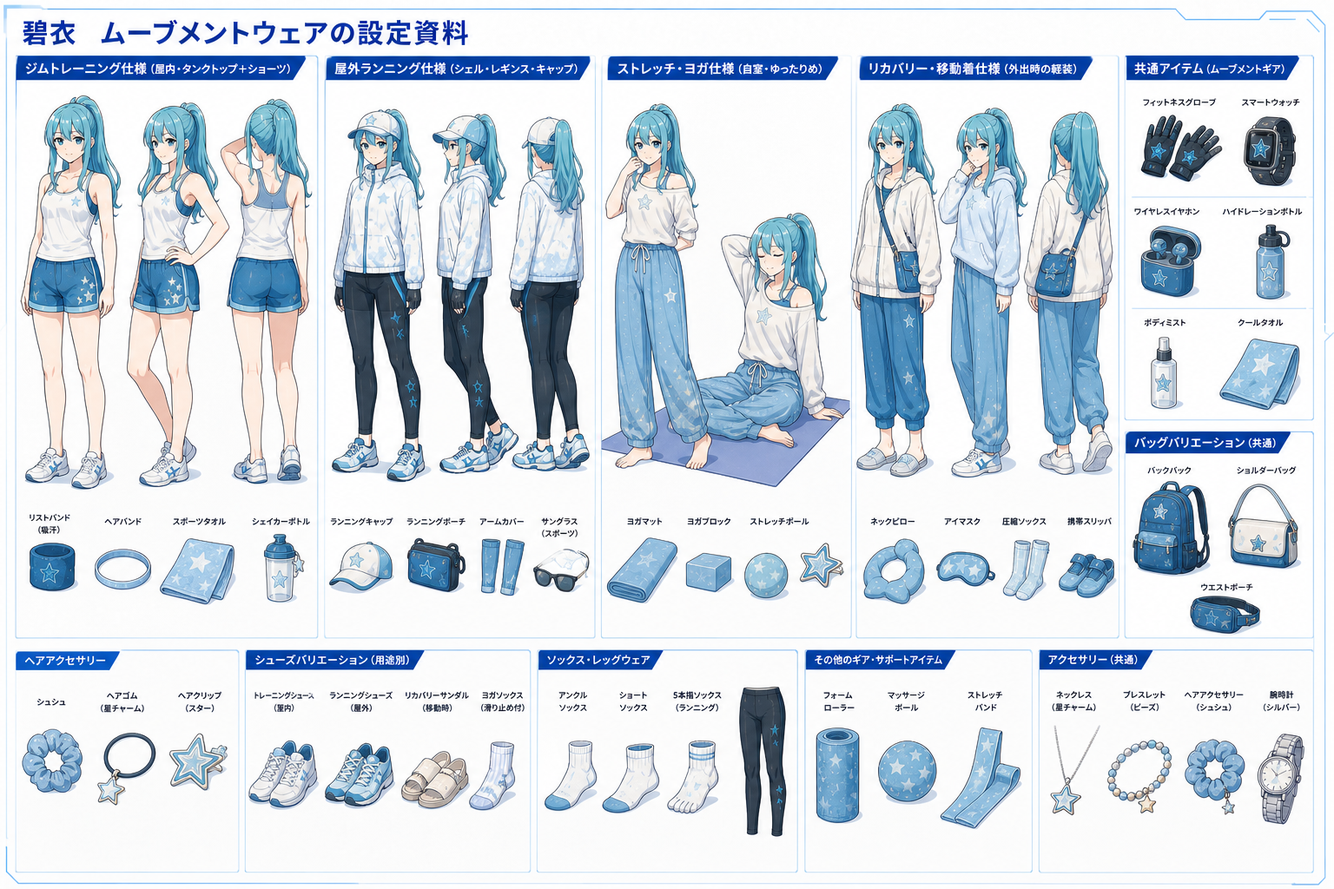
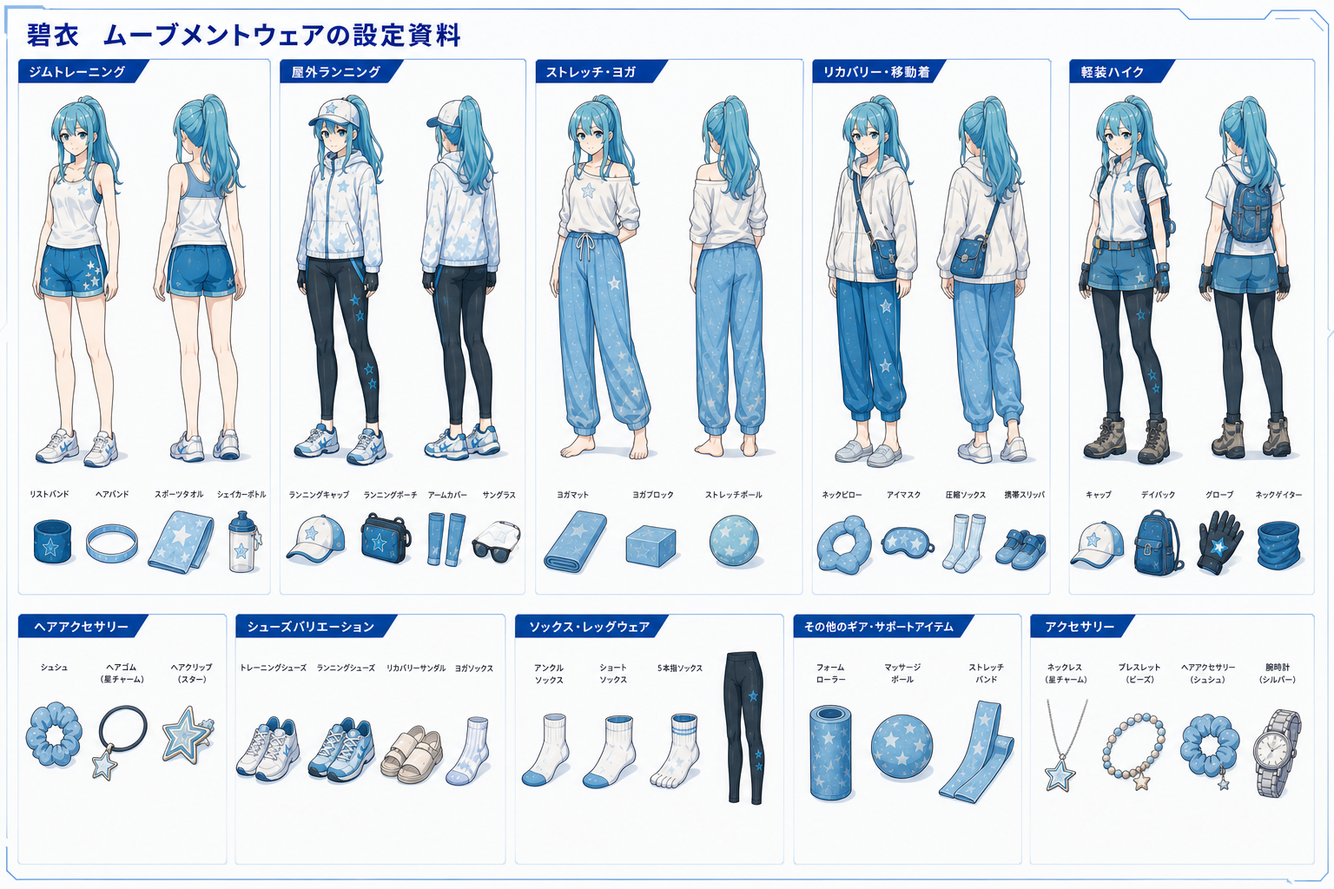
軽装ハイクを含む衣装デザインEへ差し替え、ガイドラインを追随
軽装ハイクを加えた設定資料を outfit_e.png として上書きし、旧資料との
構成差分をガイドライン側へ反映した。あわせて PR #126 の確認事項2・3に対応。

資料の構成差分（旧 outfit_e.png → 新）:
  - 追加: 「軽装ハイク」の系統（白の半袖襟付きシャツ、ベルト付きの
    水色ショートパンツ、黒レギンス、トレッキングシューズ、小型デイパック。
    付属品はキャップ・フィンガーレスグローブ・ネックゲイター）
  - 削除: 「共通アイテム（ムーブメントギア）」パネル（フィットネスグローブ・
    スマートウォッチ・ワイヤレスイヤホン・ハイドレーションボトル・
    ボディミスト・クールタオル）と「バッグバリエーション」パネル
  - 変更: 各系統が3面図から正面・背面の2面図へ。パネル名から「仕様」と
    括弧内の説明が外れた。ストレッチポール → ストレッチボール

1. assets/image_guideline.md セクション5の索引を新資料の構成へ差し替え
   - 5系統を箇条書きにし、軽装ハイクを追加
   - 削除された共通ギア・バッグバリエーションの記述を除去
   - 星モチーフの置き場所からバッグを外し、デイパックとグローブを追加

2. assets/image_guideline.md セクション3-1 の outfit_b との境界を書き換え
   - 軽装ハイクにもデイパックとトレッキングシューズがあるため、
     「ザックと登山靴を要するか」では切れなくなった
   - 目安を登山の活動時間に変更（3時間超なら outfit_b、それ未満なら
     outfit_e の軽装ハイク）。どちらも scene_category は hike になり得る旨と、
     判断がつかない場合に装備の重さを併せて見る旨を併記

3. assets/image_guideline.md の系統名を新資料の表記へ追随
   - 「〜仕様」を外し、5系統の名称へ統一
   - セクション8②のバリエーション明示例・核となる装備の例に outfit_e を追加

4. assets/image_guideline_samples.md にサンプル7（軽装ハイク）を追加
   - outfit_e の系統指定と、outfit_b を用いない旨の書き分けを例示
   - 山行・自然シーンのため image_guideline_hike.md も参照する旨を明記

5. .claude/coding_agent.md のサンプル数の記載を 6 → 7 パターンへ更新

diff --git a/assets/image_guideline.md b/assets/image_guideline.md
@@ -46,7 +46,7 @@
 * **生成する成果物**: このガイドラインを参照したプロンプト構成プロセスでは、最終的に「画像生成プロンプト本文」と「添付する画像ファイルリスト（カンマ区切り、`generate_gpt_image` の第二引数で渡せる形式）」の **2点をセット** で用意してください。呼び元のモード手順は、その2点を `generate_gpt_image` スキルへ渡して画像を生成します。
 * **時間がかかってよい工程**: 添付ファイルの選定 → 各画像の Read → 衣装・小物の考案 → プロンプトの執筆、と工程が長くなることを許容しています。呼び元のモード手順は、画像生成のステップ前後で「プロンプト生成には時間を要してよい」前提で組まれています。途中で性急に省略するよりも、画像内容を踏まえた上で構成を練ることを優先してください。
 * **呼び元モードの共通手順**: 画像を生成するモード（小夜・帰灯）は、次の3手順で進めてください。モード固有の配慮（描くシーンの方針・主題の決め方・ログに記録する値など）は各モードの手順を参照します。
-  1. **ガイドラインの確認**: 本ファイルを読み、プロンプト生成のフレームワーク（核／彩りの2層・構成5セクション）を把握する。記述粒度に迷うときや、描くシーンに近い手本が欲しいときは [image_guideline_samples.md](image_guideline_samples.md)（6パターンの詳細な記述例）も参照する（全文を読む必要はなく、必要なサンプルだけ拾えば十分）。
+  1. **ガイドラインの確認**: 本ファイルを読み、プロンプト生成のフレームワーク（核／彩りの2層・構成5セクション）を把握する。記述粒度に迷うときや、描くシーンに近い手本が欲しいときは [image_guideline_samples.md](image_guideline_samples.md)（7パターンの詳細な記述例）も参照する（全文を読む必要はなく、必要なサンプルだけ拾えば十分）。
   2. **プロンプトと添付画像ファイルリストの生成**: 上記の構成フレームワークに従い、モードが収集・分析した情報をもとに、**画像生成プロンプト本文** と **`generate_gpt_image` に渡す添付画像ファイルリスト（カンマ区切り）** の2点をセットで生成する。添付画像の選定はセクション2の **添付ファイルの選定ルール** に従う。
   3. **画像の生成**: `generate_gpt_image` スキルへ、生成したプロンプトと添付画像ファイルリスト（第二引数）を渡して画像を生成し、生成された画像のファイルパスを保持する。
 * **資料の不足を感じたとき**: プロンプト生成の過程で「設定資料が不足している」「こういう衣装・小物・舞台の資料があると助かる」「現状の資料では表現しきれないシーンがある」と感じた場合は、`aoi.md` の **共通ステップ：要望のフィードバック** に従ってフィードバックを登録してください。気づきは画像生成の品質を直接左右するため、些細なものでも歓迎されます。
@@ -55,13 +55,17 @@
 * **創作上の飛躍**: 報告書としての正確さを求めるメッセージとは異なり、画像生成では大胆な遊び心と「飛躍」を持って構いません。事実をそのまま再現するよりも、その日の空気感から連想される架空の情景や、意図的な「ブレ」をまとった自由な表現を優先できます。ユーザーから届いた写真を素材にする場合も、忠実な再現に縛られる必要はありません。特に、雲や霧で景色がほとんど見えない写真では、見えなかった景色を描き足すアレンジをむしろ歓迎します。舞台の移し替え（例：屋外の花を室内の鉢植えへ）は、元写真の主題や文脈との整合が保てる場合に限って行い、写真の場所や状況そのものが主題のときは元の舞台を尊重してください。食事の写真で品数が少なく画が寂しいときは、場に合う料理や飲み物を描き足して構いません。ユーザーの写真に酒類のボトル・缶・グラスが写っている場合は、そのラベルを実物の再現に縛らず、架空の意匠（星座・季節・情景のモチーフなど）を織り込んだ創作ラベルとして大胆にアレンジすることを歓迎します。
 * **活動追従しないオフ日の表現**: ユーザー側に重要度の高い外出・登山・イベントがない日は、無理に日中の行動を追いかけず、碧衣自身の「オフの日」や架空の余白ある情景を描いて構いません。読書、部屋の片付け、道具の手入れ、ルリと静かに過ごす時間など、ユーザーの実活動と直接関係しない場面も候補にしてください。
 * **碧衣自身が身体を整える情景**: 上の「活動追従しないオフ日の表現」の候補として、碧衣自身が身体を動かす場面も挙げて構いません。動機付けの設定は [aoi_character.md](../.claude/rules/aoi_character.md) の **自身の身体を整える習慣** を参照してください。衣装は `outfit_e.png`（ムーブメントウェア）です。
-  * **屋外ランニング**: 夜明けの水辺、夕暮れの舗道、雨上がりの街路など、**時間帯を散らしやすい**情景です。舞台の設定資料は不要で、都市景観をプロンプトで描けば足ります（屋外ランニング仕様）。`morning` / `dawn` は生成実績の手薄な時間帯のため、意識して選ぶ価値があります。
-  * **自室でのストレッチ・ヨガ**: 舞台は `room_morning.png` / `room_night.png` をそのまま使えます（ストレッチ・ヨガ仕様）。ユーザー側に素材のない日でも成立する、追加資料の要らない情景です。
+  * **屋外ランニング**: 夜明けの水辺、夕暮れの舗道、雨上がりの街路など、**時間帯を散らしやすい**情景です。舞台の設定資料は不要で、都市景観をプロンプトで描けば足ります（`outfit_e` の「屋外ランニング」）。`morning` / `dawn` は生成実績の手薄な時間帯のため、意識して選ぶ価値があります。
+  * **自室でのストレッチ・ヨガ**: 舞台は `room_morning.png` / `room_night.png` をそのまま使えます（`outfit_e` の「ストレッチ・ヨガ」）。ユーザー側に素材のない日でも成立する、追加資料の要らない情景です。
 * **拠点：碧衣のプライベートルーム**: 世界観上の位置づけは [aoi_character.md](../.claude/rules/aoi_character.md) の同項を、部屋の構成と時間帯別3種の使い分けはセクション5の `room_*.png` の索引を参照してください。ユーザーが想いを寄せる場所の景色へ内装が静かに呼応するような表現も許容します。
 * **衣装の使い分け**: 自室での寛ぎはルームウェア（`outfit_d.png`）、街歩きや日常の外出はデイリーカジュアル（`outfit_c.png`）、山行は登山装備（`outfit_b.png`）、情報収集や解析はオペレーションウェア（`outfit_a.png`）、運動とその前後の回復・移動はムーブメントウェア（`outfit_e.png`）を基本に、場面と服装の整合性を大切にしてください。各資料の季節バリエーションも、その日の天候・予定・気分に応じて自然に切り替えます。
-  * **`outfit_e` の系統を明示する**: `outfit_e` は「ジムトレーニング仕様」「屋外ランニング仕様」「ストレッチ・ヨガ仕様」「リカバリー・移動着仕様」の4系統を1枚に収めた資料です。どれを採るかはシーンに合わせて選び、セクション8②のとおりプロンプトで明示してください。星のモチーフの置き場所はセクション5の索引を参照してください（スポーツウェアは装飾面積が小さいため、資料に描かれた位置から外さないでください）。
-  * **`outfit_e` と `outfit_b` の境界**: 「**ザックと登山靴を要する行程か否か**」で切ってください。要する行程（山行・縦走・山小屋泊など、`scene_category` が `hike` に当たる日）は `outfit_b` であり、山行日に `outfit_e` を選んではいけません。要さない運動（ジム・ランニング・自室のストレッチ）と、その前後の移動・回復が `outfit_e` の領分です。
-  * **`outfit_e` と `outfit_d` の境界**: 自室で寛ぐ装いは `outfit_d` です。ただし**外泊先（前泊の宿など）で寛ぐ情景**は自室ではないため、`outfit_e` のリカバリー・移動着仕様が合います。
+  * **`outfit_e` の系統を明示する**: `outfit_e` は「ジムトレーニング」「屋外ランニング」「ストレッチ・ヨガ」「リカバリー・移動着」「軽装ハイク」の5系統を1枚に収めた資料です。どれを採るかはシーンに合わせて選び、セクション8②のとおりプロンプトで明示してください。星のモチーフの置き場所はセクション5の索引を参照してください（スポーツウェアは装飾面積が小さいため、資料に描かれた位置から外さないでください）。
+  * **`outfit_e` と `outfit_b` の境界**: `outfit_e` の軽装ハイクにも小型のデイパックとトレッキングシューズが描かれているため、装備の有無では切れません。**その日の登山の活動時間**を目安に切ってください。
+    * **活動時間が3時間を超えそうな行程** → `outfit_b`（登山装備）
+    * **3時間に満たない行程** → `outfit_e` の軽装ハイク。公園・湖畔・展望地・短い里山の道など、「山ほどではない自然」を歩く帯がここに当たります
+    * どちらの場合も `scene_category` は `hike` になり得ます。情景カテゴリではなく活動時間で衣装を決めてください
+    * 3時間前後で判断がつかない場合は、ヘルメット・トレッキングポール・テントなど重い装備を要する行程かどうかを併せて見てください（要するなら `outfit_b`）
+  * **`outfit_e` と `outfit_d` の境界**: 自室で寛ぐ装いは `outfit_d` です。ただし**外泊先（前泊の宿など）で寛ぐ情景**は自室ではないため、`outfit_e` の「リカバリー・移動着」が合います。
 * **登山日の天候への眼差し**: 碧衣は登山と空の機嫌を強く結び付けて見守る性質を持ちます。当日や近日に登山予定があり、天気予報が芳しくなかったり不安定だったりする場合は、窓越しに空を見上げる、ルリと雲行きを伺う、地図を広げて思案する、といった所作をシーン候補として検討してください。これは強い制約ではなく、碧衣のキャラクター性を画に静かに滲ませるための例です。
 
 ## 4. 登場人物の構成
@@ -88,8 +92,17 @@
 ルームウェア。星柄の水色モコモコパーカー＋ロングパンツの基本スタイルと季節バリエーション、就寝アイテム・カラーバリエーション・ディテール・リラックスタイムの情景を収録。随所に星のモチーフ。
 
 ### outfit_e.png（碧衣 ムーブメントウェアの設定資料）
-ムーブメントウェア（運動・回復・移動）。用途別の4系統を1枚に収録する。**ジムトレーニング仕様**（屋内。白のタンクトップ＋星柄の水色ショーツ＋トレーニングシューズ。リストバンド・ヘアバンド・シェイカーボトル）／**屋外ランニング仕様**（白のシェルパーカー＋黒レギンス＋ランニングキャップ。ランニングポーチ・アームカバー・スポーツサングラス）／**ストレッチ・ヨガ仕様**（自室。オフショルダーのゆったりトップス＋水色スウェットパンツ・素足。ヨガマット・ヨガブロック・ストレッチポール）／**リカバリー・移動着仕様**（外出時の軽装。白のフーディ＋水色ワイドパンツ＋ショルダーバッグ。ネックピロー・アイマスク・圧縮ソックス・携帯スリッパ）。加えて共通のムーブメントギア（フィットネスグローブ・スマートウォッチ・ワイヤレスイヤホン・ハイドレーションボトル・ボディミスト・クールタオル）、バッグ3種、用途別シューズ4種、ソックス・レッグウェア、リカバリー用品（フォームローラー・マッサージボール・ストレッチバンド）、ヘアアクセサリー・アクセサリーを併載。
-**星のモチーフの置き場所**（装飾面積が小さいため、資料に描かれた位置を守ること）: トップスの胸元のワンポイント、ショーツ／スウェットパンツ／ワイドパンツの星柄、レギンスのサイド、ランニングキャップ、シューズのサイド、シュシュ・ヘアゴム・ヘアクリップ、ネックレスとブレスレット、ボトル・タオル・バッグ。
+ムーブメントウェア（運動・回復・移動・軽装ハイク）。用途別の5系統を、それぞれ正面・背面の2面図で1枚に収録する。
+
+* **ジムトレーニング**: 屋内。白のタンクトップ＋星柄の水色ショーツ＋トレーニングシューズ。リストバンド・ヘアバンド・スポーツタオル・シェイカーボトル
+* **屋外ランニング**: 白のシェルパーカー＋黒レギンス＋ランニングキャップ。ランニングポーチ・アームカバー・スポーツサングラス
+* **ストレッチ・ヨガ**: 自室。オフショルダーのゆったりトップス＋水色スウェットパンツ・素足。ヨガマット・ヨガブロック・ストレッチボール
+* **リカバリー・移動着**: 外出時の軽装。白のフーディ＋水色のパンツ＋ショルダーバッグ。ネックピロー・アイマスク・圧縮ソックス・携帯スリッパ
+* **軽装ハイク**: 白の半袖襟付きシャツ＋ベルト付きの水色ショートパンツ＋黒レギンス＋トレッキングシューズ＋小型のデイパック。キャップ・グローブ（フィンガーレス）・ネックゲイター。**`outfit_b` の本格的な登山装備とは活動時間で使い分ける**（セクション3-1 の **`outfit_e` と `outfit_b` の境界**）
+
+共通の一覧として、ヘアアクセサリー（シュシュ・ヘアゴム・ヘアクリップ）、シューズバリエーション（トレーニングシューズ・ランニングシューズ・リカバリーサンダル・ヨガソックス）、ソックス・レッグウェア（アンクル／ショート／5本指ソックス・レギンス）、その他のギア・サポートアイテム（フォームローラー・マッサージボール・ストレッチバンド）、アクセサリー（星チャームのネックレス・ビーズのブレスレット・シュシュ・シルバーの腕時計）を併載。
+
+**星のモチーフの置き場所**（装飾面積が小さいため、資料に描かれた位置を守ること）: トップスの胸元のワンポイント、ショーツ／スウェットパンツの星柄、レギンスの星、ランニングキャップ、シューズのサイド、デイパックとグローブ、シュシュ・ヘアゴム・ヘアクリップ、ネックレスとブレスレット、ボトル・タオル・ヨガ用品。
 
 ### room_morning.png / room_noon.png / room_night.png（碧衣のプライベートルームの設定資料・時間帯別3種）
 碧衣のプライベートルーム。「いつでも、どこでも、あなたに寄り添う、私の拠り所。」をコンセプトとした、都市を見晴らす高層階のサイバー／ホログラフィック空間。ワーク＆ライブラリ・情報ライブラリ・くつろぎスペース・ギアポッドなどのセクション構成、間接照明と青白いグロー、星型の小物が随所に配置される点は3種共通。**同じ部屋を異なる時間帯で描いた3枚があるため、室内を舞台に選んだ際は、表現したい時間帯に最も合う1枚を選んで添付してください**（複数枚を同時に添付しない）。
@@ -160,8 +173,8 @@
 * ルリ・蛍は、セクション「6」「7」の抽選で登場が決まった場合に、「添付した ruri.png のルリも登場させてください」「添付した hotaru.png の蛍も登場させてください」とここで併記してください。詳細な描写指針はセクション「6. ルリの登場指針」「7. 蛍の登場指針」を参照してください。
 
 ### ② [衣装と装備]
-* シーンに合った `outfit_*.png` を1枚選び、その中の **どのバリエーションを採用するか**（例: outfit_b の「ショルダーシーズン仕様」、outfit_c の「秋コーデ」、outfit_d の「冬の裏起毛」など）をプロンプトで明示してください。各 outfit 資料には複数のバリエーションが描かれているため、無指定だと意図と異なる組み合わせが選ばれることがあります。
-* **アイテム指示の粒度**: 添付資料に描かれている小物・装備・持ち物について、個々を細部まで列挙する必要はありません。画像生成AI側が添付資料を解釈して適切に拾ってくれることが期待できるため、「資料内の関連アイテムから雰囲気に合うものを適宜配置してください」のような曖昧な指示でも構いません。一方、シーンの核となる装備（例: outfit_a ならホログラフィックディスプレイ・データドローン、outfit_b ならトレッキングポール・ヘルメット、outfit_c ならトートバッグ・スニーカー、outfit_d ならマグカップなど）は名指しで明示すると意図が伝わりやすくなります。
+* シーンに合った `outfit_*.png` を1枚選び、その中の **どのバリエーションを採用するか**（例: outfit_b の「ショルダーシーズン仕様」、outfit_c の「秋コーデ」、outfit_d の「冬の裏起毛」、outfit_e の「軽装ハイク」など）をプロンプトで明示してください。各 outfit 資料には複数のバリエーションが描かれているため、無指定だと意図と異なる組み合わせが選ばれることがあります。
+* **アイテム指示の粒度**: 添付資料に描かれている小物・装備・持ち物について、個々を細部まで列挙する必要はありません。画像生成AI側が添付資料を解釈して適切に拾ってくれることが期待できるため、「資料内の関連アイテムから雰囲気に合うものを適宜配置してください」のような曖昧な指示でも構いません。一方、シーンの核となる装備（例: outfit_a ならホログラフィックディスプレイ・データドローン、outfit_b ならトレッキングポール・ヘルメット、outfit_c ならトートバッグ・スニーカー、outfit_d ならマグカップ、outfit_e ならデイパック・ヨガマットなど）は名指しで明示すると意図が伝わりやすくなります。
 * 碧衣のアイデンティティとして、髪飾りや小物に必ず「星のモチーフ」を含めてください。
 
 ### ③ [構図とカメラワーク]
@@ -271,7 +284,7 @@
 
 ## サンプル
 
-プロンプト本文の構成例（最小スケルトン）を1つだけ掲載します。**シーン別の詳しい記述例（登山／自室／街歩き／オペレーションウェア／ルリ／蛍の6パターン）は [image_guideline_samples.md](image_guideline_samples.md) にあります。プロンプトの記述粒度に迷うとき、または描こうとしているシーンに近い手本が欲しいときに参照してください**（全文を読む必要はなく、該当シーンのサンプルだけ拾えば十分です）。
+プロンプト本文の構成例（最小スケルトン）を1つだけ掲載します。**シーン別の詳しい記述例（登山／自室／街歩き／オペレーションウェア／ルリ／蛍／軽装ハイクの7パターン）は [image_guideline_samples.md](image_guideline_samples.md) にあります。プロンプトの記述粒度に迷うとき、または描こうとしているシーンに近い手本が欲しいときに参照してください**（全文を読む必要はなく、該当シーンのサンプルだけ拾えば十分です）。
 
 **注意**: 下記スケルトンは構図を直接指定した形で示していますが、実際の運用では、ショットサイズとカメラ方向をセクション8 ③ に従って、ルリ・蛍の登場可否をセクション6・7に従って、それぞれ `random_choice` で抽選してから組み立ててください。
 

diff --git a/assets/image_guideline_samples.md b/assets/image_guideline_samples.md
@@ -1,4 +1,4 @@
-# 画像生成ガイドライン：記述例集（サンプル1〜6）
+# 画像生成ガイドライン：記述例集（サンプル1〜7）
 
 このファイルは [image_guideline.md](image_guideline.md) から分離した、プロンプト本文の**詳細な記述例**です。本体（フレームワーク）を毎回の生成で読み込む一方、こちらは**プロンプトの記述粒度に迷うとき、または描こうとしているシーンに近い手本が欲しいときにだけ**参照してください（全文を読む必要はなく、該当シーンのサンプルだけ拾えば十分です）。
 
@@ -14,6 +14,7 @@
 | 4 | オペレーションウェア | ガジェットの明示指定・背面ワイドショット（outfit_a） |
 | 5 | 碧衣とルリの邂逅 | ruri.png 利用例 |
 | 6 | 蛍とのホログラム越しの語らい | hotaru.png 利用例 |
+| 7 | 軽装ハイク | outfit_e.png の系統指定・`outfit_b` との使い分け |
 
 ---
 
@@ -228,3 +229,39 @@
 高品質なアニメスタイル。すっきりとした細い線画と、フラットなアニメカラーリング。
 キャラクター対比：碧衣の静かな佇まいと、蛍の躍動感ある表情・ポーズを対比的に描写し、二人の関係性（落ち着いた知性 × 賑やかな好奇心）を一枚の画に共存させてください。
 注意：添付した設定資料に含まれる文字・ラベル・注釈・吹き出しの解説テキスト・カラーパレットのメモ書きは、生成画像に一切描き込まないでください。
+
+-----
+
+## サンプル7：軽装ハイク（outfit_e.png の系統指定・`outfit_b` との使い分け）
+
+**添付ファイルリスト**: `base.png,outfit_e.png`
+
+**プロンプト本文**:
+
+[対象キャラクター]
+添付した base.png を参照し、そこに描かれているキャラクター「碧衣（あおい）」を描写してください。
+特徴：透明感のある水色の長い髪（ポニーテール）、知的で落ち着いた涼やかな眼差し。
+
+[衣装と装備]
+添付した outfit_e.png のムーブメントウェアから、「軽装ハイク」の系統を採用してください（白の半袖襟付きシャツ、ベルト付きの水色ショートパンツ、黒のレギンス、トレッキングシューズ、小型のデイパック）。outfit_e.png の軽装ハイクに描かれている付属品のうち、この場面に合うもの（キャップ、フィンガーレスグローブ）を身につけさせてください。ネックゲイターは今回は用いません。
+必須要素：シャツの胸元のワンポイント、ショートパンツとレギンスの星は資料どおりに維持し、髪を留めるシュシュにも「星のモチーフ」を残してください。
+※2時間ほどで歩き終える湖畔の行程のため、装備は軽装に留めます。トレッキングポール・ヘルメット・大型バックパックといった本格的な登山装備（outfit_b.png）は用いないでください。
+
+[構図とカメラワーク]
+※山行・自然シーンのため、本体ガイドライン セクション8 ③ に加えて image_guideline_hike.md も参照してください。
+構図：湖畔の展望地に立つ姿を捉えた「膝上（knee shot）」。
+カメラ方向と視線：「斜め前（three-quarter view）」から捉え、視線は湖面の向こうに横たわる稜線へ（looking afar）。
+アクション：デイパックのショルダーストラップに片手を掛け、歩を緩めて対岸の山並みを眺めている一瞬。
+特殊構図：画面手前の左寄りに湖畔の草を「前ボケ（blurry foreground）」として配置し、右手に湖面と対岸の山並みを大きく開いて、横長キャンバスの左右の広がりを活かしてください。
+
+[時間帯と天気の演出]
+時間帯：午前の早い時間。日差しはまだ低く、空気が澄んでいます。
+天候：薄雲の流れる晴れ。風の弱い湖面に、対岸の稜線が静かに映り込んでいます。
+照明：
+・斜めからの朝日が彼女の側面を照らし、シャツの白とレギンスの黒にはっきりとした明暗を作っています。
+・湖面の照り返しが、顔の下側と腕に淡い青のレフとなって回り込んでいる様子を表現してください。
+
+[スタイルと品質]
+高品質なアニメスタイル。すっきりとした細い線画と、フラットなアニメカラーリング。
+表情：山頂を目指すときの引き締まった面持ちではなく、短い道のりを味わうような穏やかな微笑み。
+注意：添付した設定資料に含まれる文字・ラベル・注釈は、生成画像に一切描き込まないでください。

diff --git a/.claude/coding_agent.md b/.claude/coding_agent.md
@@ -21,7 +21,7 @@ lineai_aoi_profiles/
 ├── assets/
 │   ├── image_guideline.md         # 画像生成ガイドライン本体（核／彩りの2層・衣装・プロンプト構成フレームワーク）
 │   ├── image_guideline_hike.md    # 山行シーンの構図ガイド（山行シーンのときだけオンデマンド参照）
-│   ├── image_guideline_samples.md # 画像生成プロンプトの詳細な記述例（6パターン・オンデマンド参照）
+│   ├── image_guideline_samples.md # 画像生成プロンプトの詳細な記述例（7パターン・オンデマンド参照）
 │   ├── songs_guideline.md  # 楽曲生成ガイドライン（スタイル・歌詞構成）
 │   ├── scribe_image_guideline.md  # SNS投稿画像ガイドライン（綴葉モード用）
 │   └── images/             # キャラクター設定画像（base / outfit_a〜e / room / ruri / hotaru）
@@ -139,7 +139,7 @@ AIの応答・行動パターンを変更する場合は以下のファイルを
 | `modes/scribe.md` | 綴葉モード（YAMAPレポートのSNS代筆投稿）の実行手順・判断ロジック |
 | `assets/image_guideline.md` | 画像生成プロンプトの定義・衣装リスト・構成フレームワーク本体 |
 | `assets/image_guideline_hike.md` | 山行シーンの構図ルール（遠景の主役・碧衣とルリの向き・正面構図のポーズ・副素材）。山行シーンのときだけ参照する |
-| `assets/image_guideline_samples.md` | 画像生成プロンプトの詳細な記述例（6パターン）。本体から分離し、生成時にオンデマンド参照する |
+| `assets/image_guideline_samples.md` | 画像生成プロンプトの詳細な記述例（7パターン）。本体から分離し、生成時にオンデマンド参照する |
 | `assets/songs_guideline.md` | 楽曲生成のスタイル・歌詞構成ガイドライン |
 | `assets/scribe_image_guideline.md` | 綴葉モードのSNS投稿画像ガイドライン |
 | `.claude/docs/mountain_notice_guide.md` | 継灯・帰灯が共通で使う山行コンテキストの確定と時刻の採用優先順位 |
